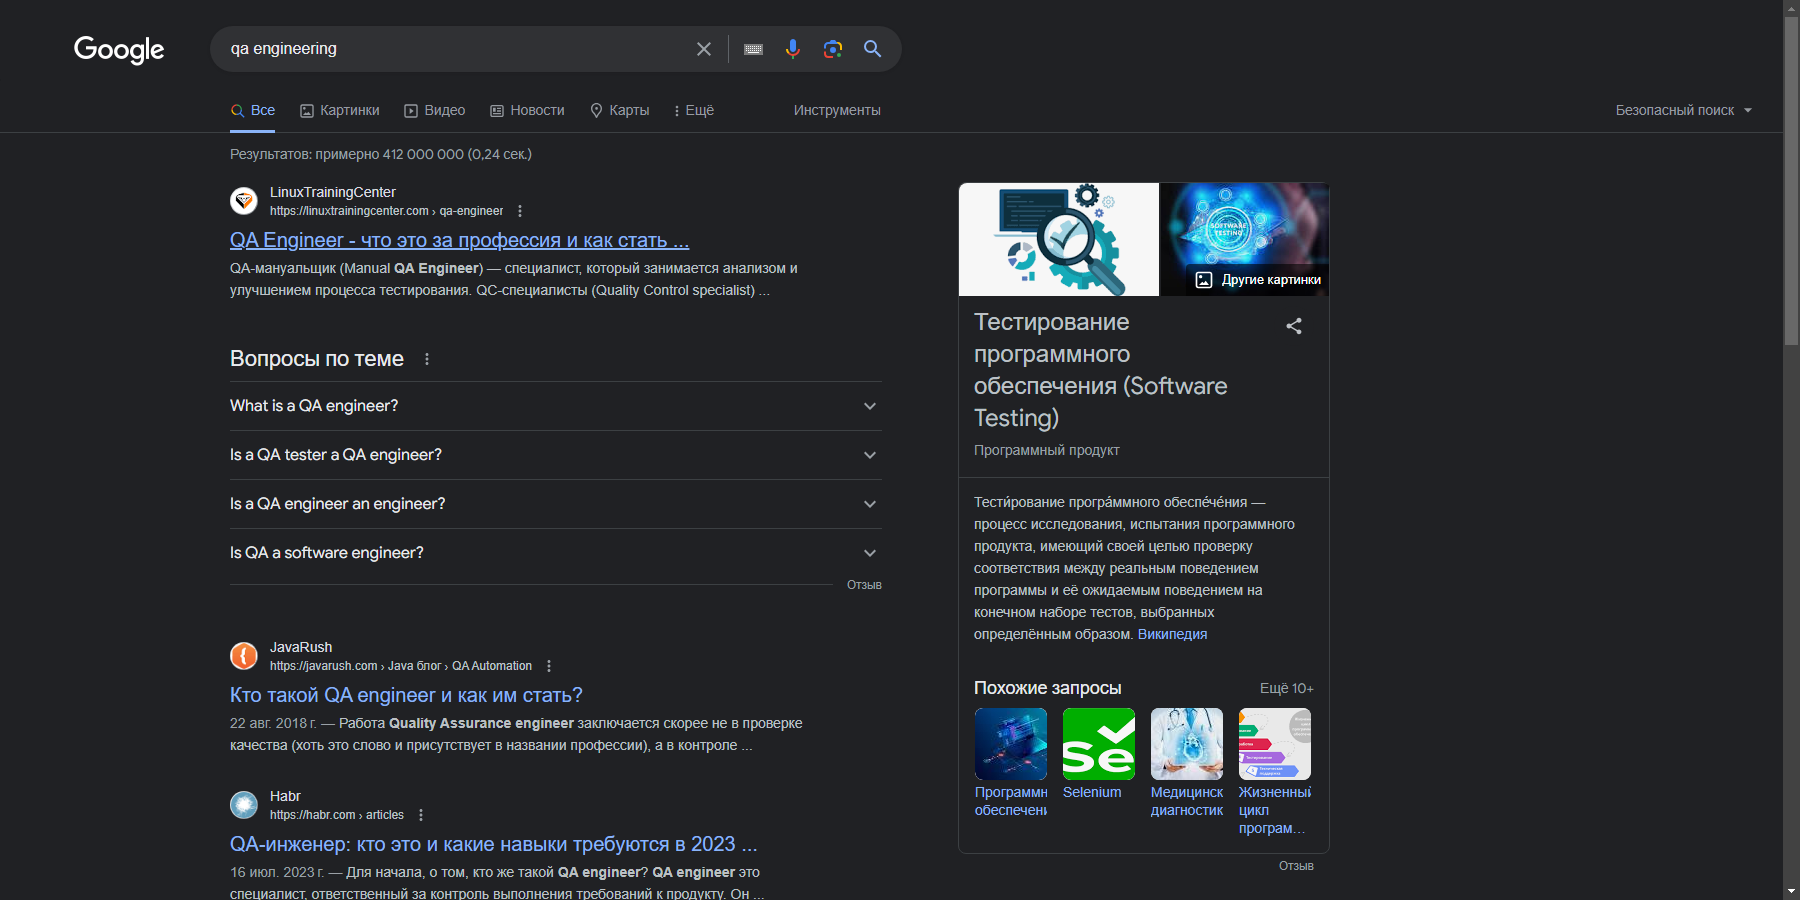
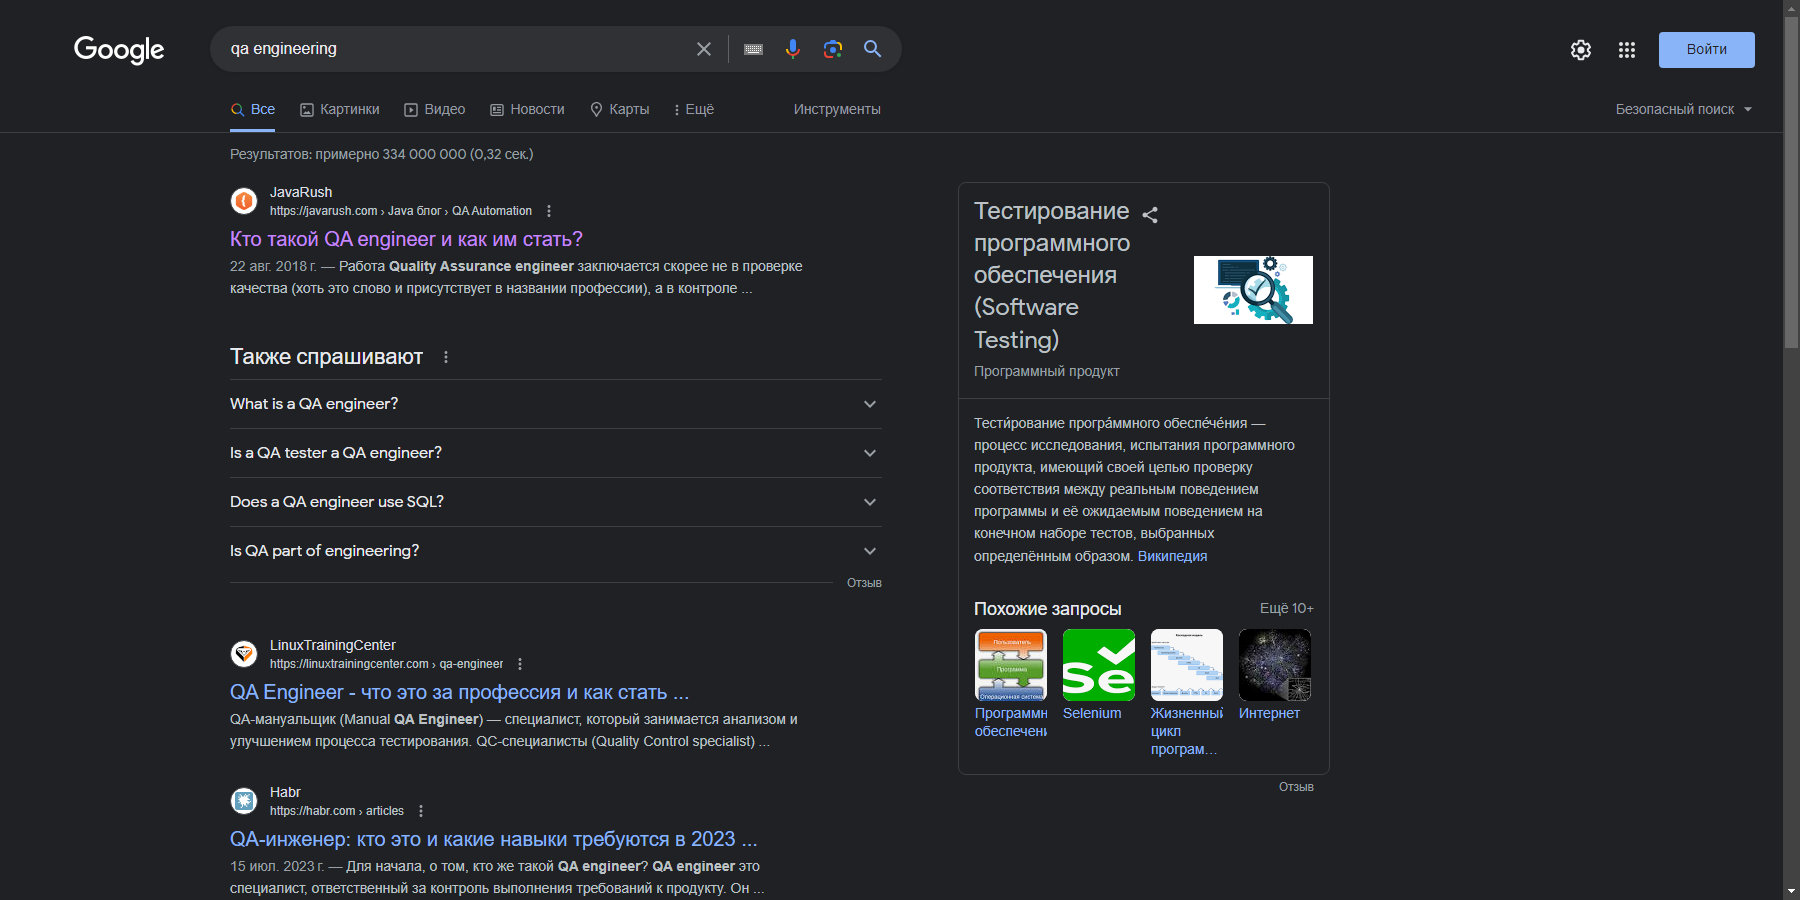
fx

diff --git a/index.js b/index.js
@@ -7,9 +7,23 @@ const puppeteer = require('puppeteer');
     await page.setViewport({ width: 1800, height: 900 });
     await page.goto('https://google.com');
     await page.type('textarea[name="q"]', 'qa engineering');
-    await page.keyboard.press('Enter');
-    await page.waitForSelector("#result-stats");
-    await page.screenshot({ path: 'google.png' });
+    await page.evaluate(() => {
 
+        const search = document.querySelector(".gNO89b")
+        search.click();
+    })
+
+    await page.waitForSelector("#rso");
+
+    const href = await page.evaluate(() => {
+        const rso = document.querySelectorAll("[id='rso']")[0]
+        const website = rso.querySelectorAll('a')[0]
+        return website.getAttribute('href')
+    })
+    const newPage = await browser.newPage();
+    await newPage.goto(href);
+
+    await page.screenshot({ path: 'google.png' });
+    await newPage.screenshot({ path: 'newPage.png' });
     await browser.close();
 })();
